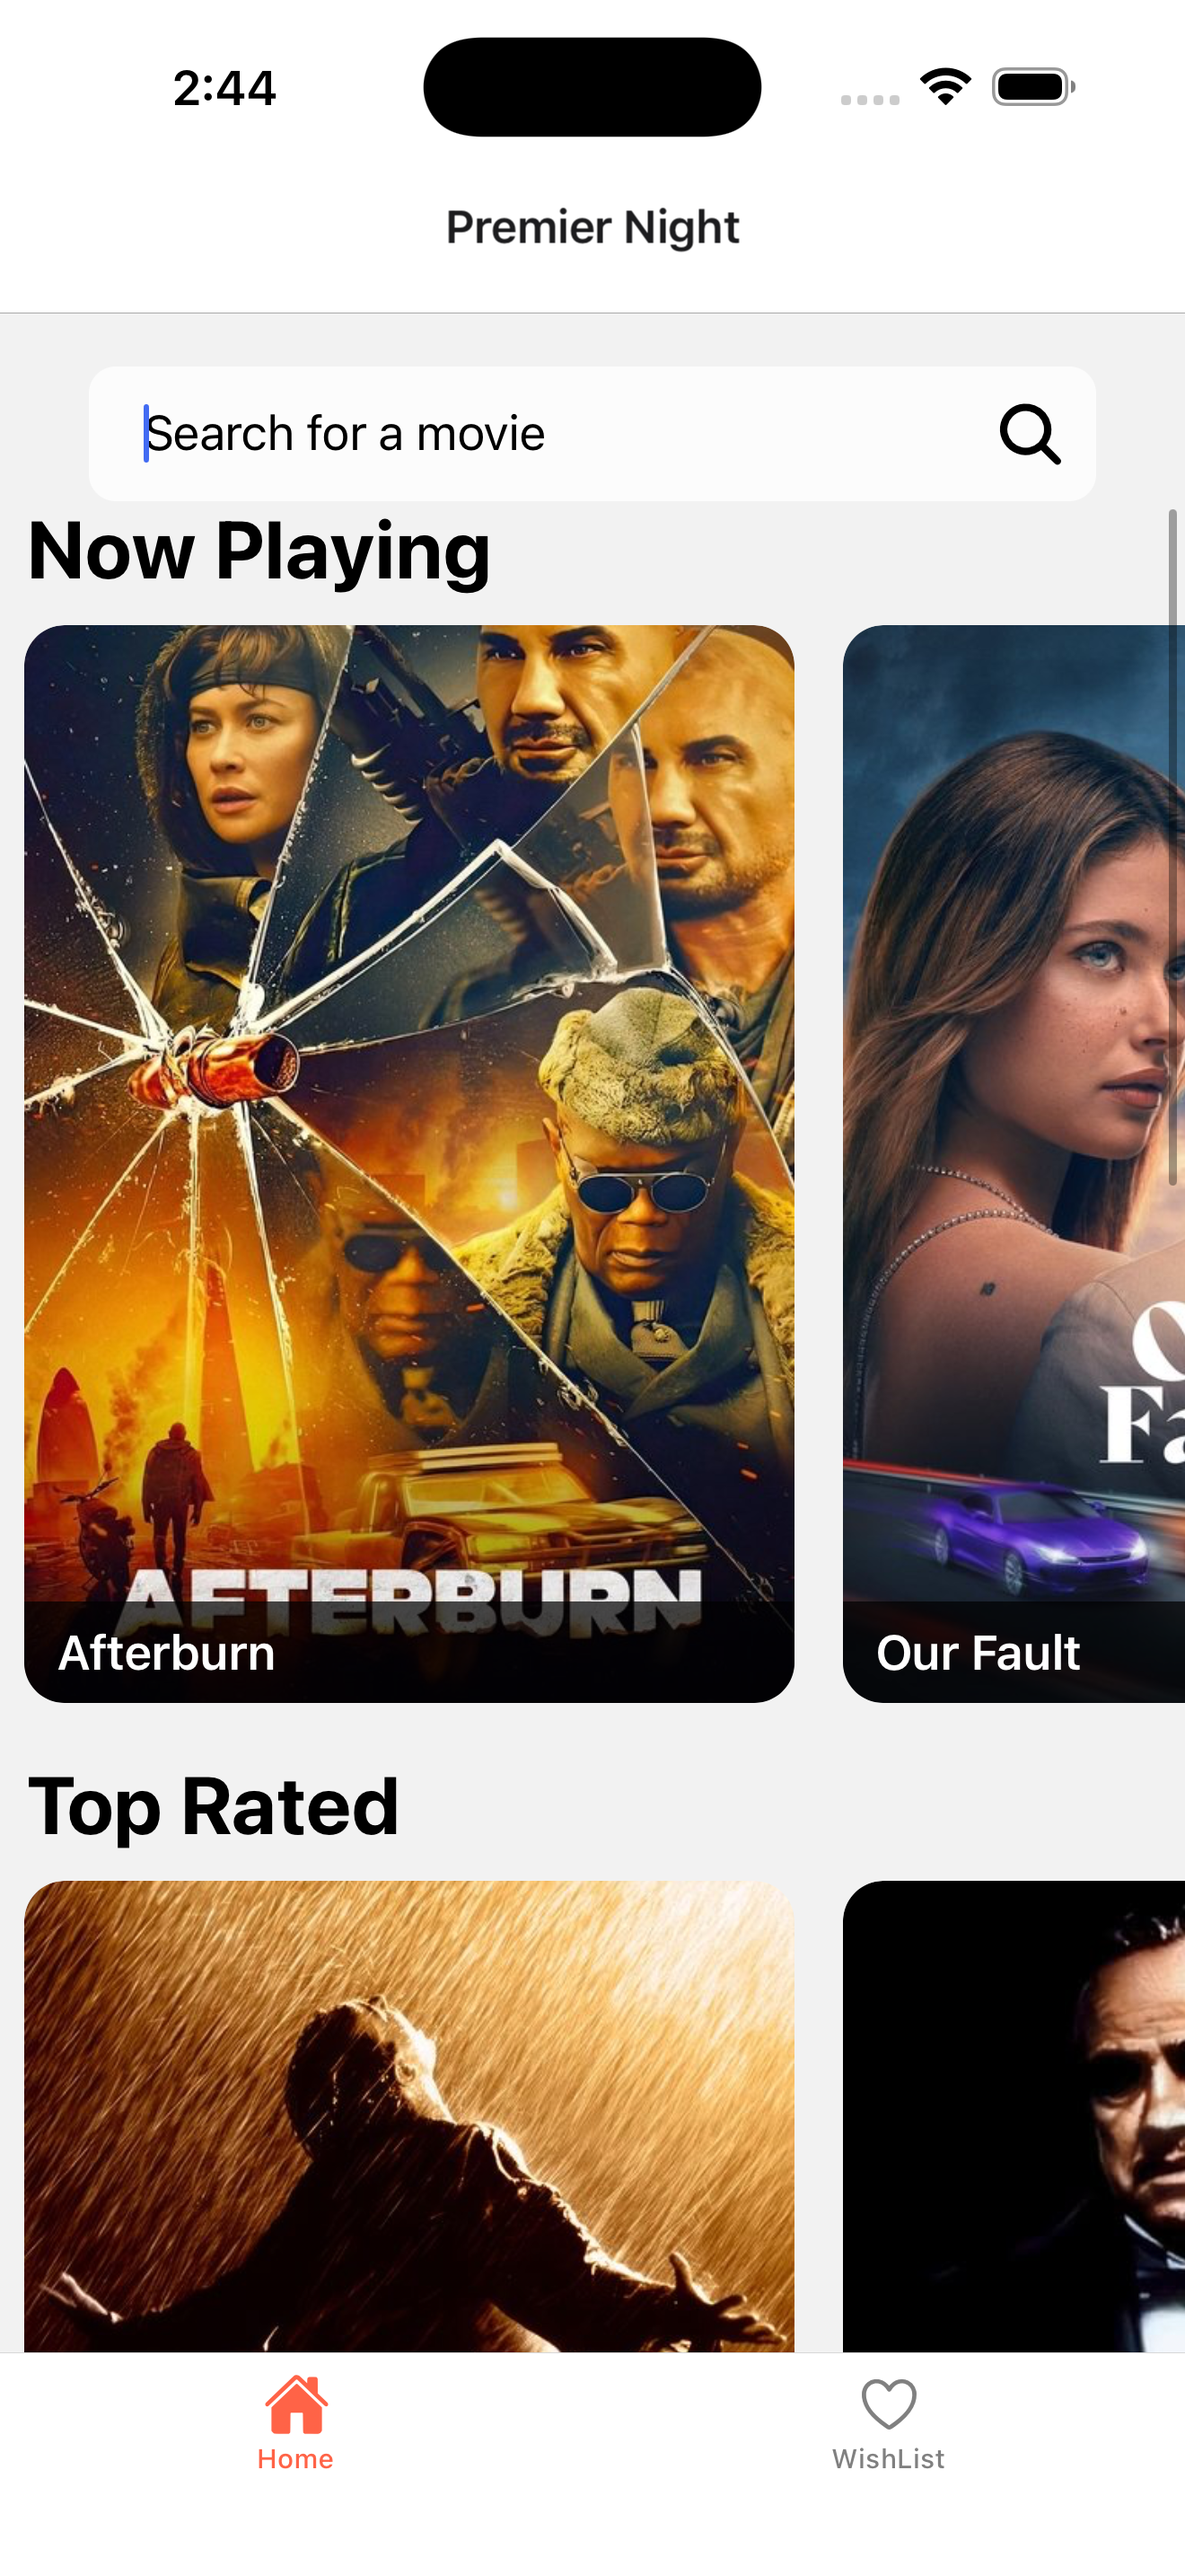
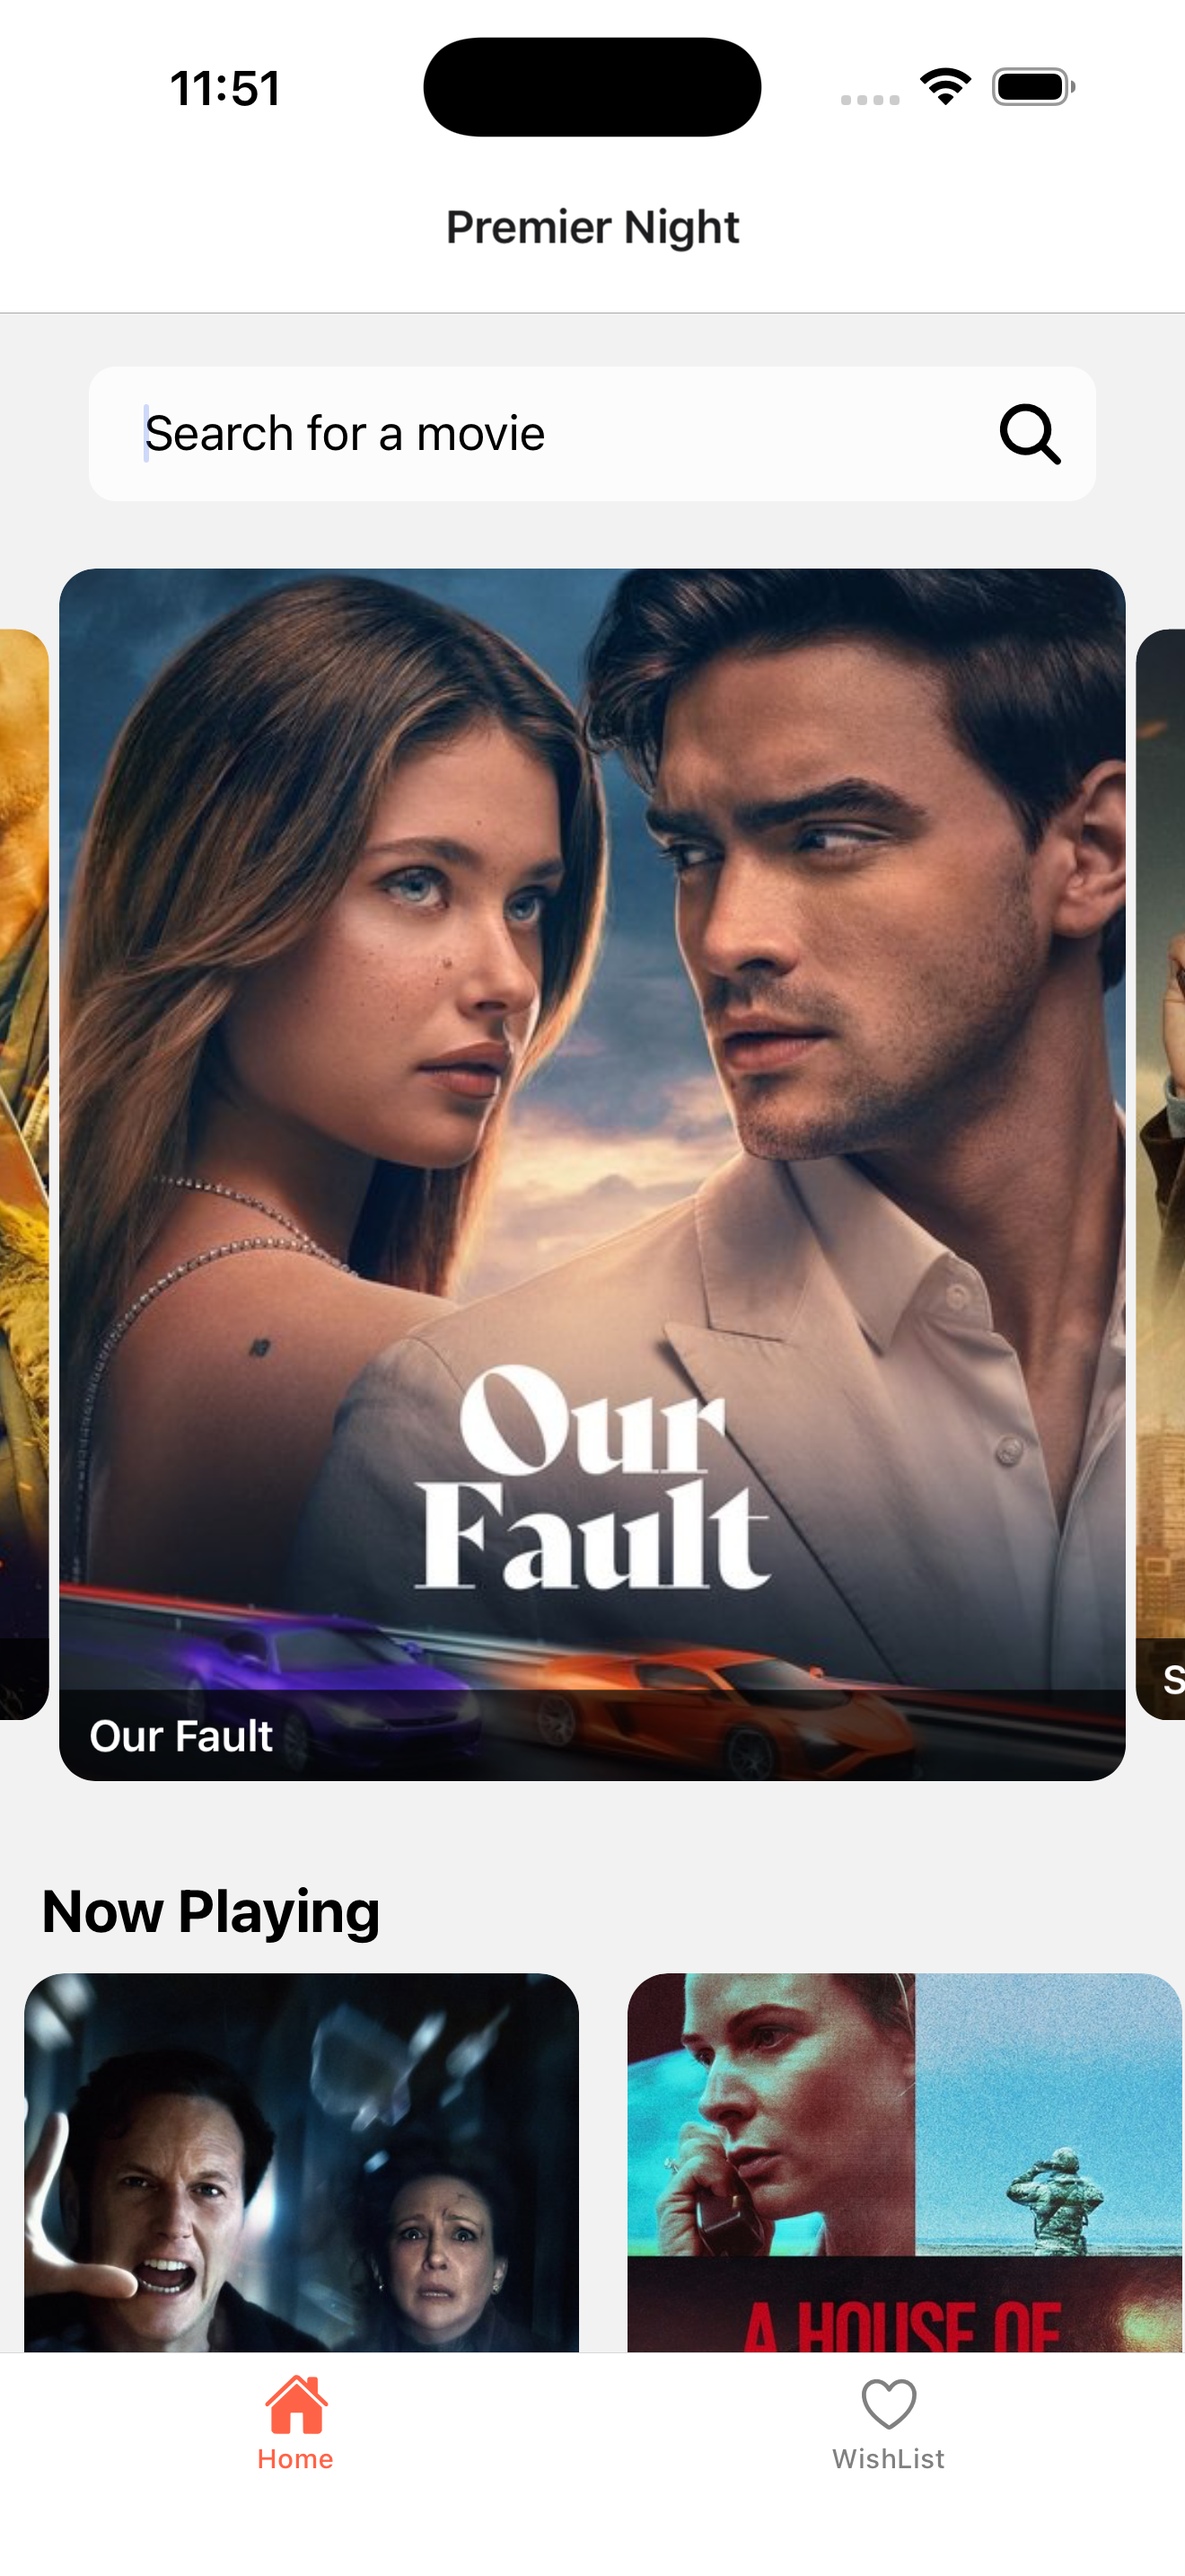
docs: update README file

diff --git a/jest.config.js b/jest.config.js
@@ -19,11 +19,12 @@ module.exports = {
       '@react-native|' +
       'react-native|' +
       '@react-navigation|' +
-      'react-native-vector-icons|' +
+      '@react-native-vector-icons|' +
       '@reduxjs/toolkit|' +
       'immer|' +
       'react-redux|' +
-      'redux' +
+      'redux|' +
+      '@react-native-async-storage' +
       ')/)',
   ],
   testPathIgnorePatterns: [

diff --git a/README.md b/README.md
@@ -2,16 +2,16 @@
 
 A modern React Native movie discovery application built with Clean Architecture principles, featuring movie browsing, detailed information, and wishlist management powered by The Movie Database (TMDB) API.
 
-### Note: Inital load of the app on iOS 18.0 or higher can return Axios error (404 mainly). This is due to some issue in iOS side. But incase it doesn't work you can reload the app again
+### Note: Initial load of the app on iOS 18.0 or higher can return Axios error (404 mainly). This is due to some issue in iOS side. But incase it doesn't work you can reload the app again.I have updated Info.plist to fix the issue 
 
 ## App Demo
 
 <details>
   <summary>📱 App Screenshots (Click to expand)</summary>
 
-  | Home Screen | Movie Details | Wishlist |
-  |--------------|----------------|-----------|
-  | ![Home Screen](./screenshots/home.png) | ![Movie Details](./screenshots/details.png) | ![Wishlist](./screenshots/wishlist.png) |
+  | Home Screen | Movie Details | View More | Wishlist |
+  |--------------|----------------|-----------|-----------|
+  | ![Home Screen](./screenshots/home.png)  | ![Movie Details](./screenshots/details.png) |  ![View More](./screenshots/movie-category.png) | ![Wishlist](./screenshots/wishlist.png) |
 
 </details>
 
@@ -24,6 +24,7 @@ A modern React Native movie discovery application built with Clean Architecture 
 - [Architecture](#architecture)
 - [Project Structure](#project-structure)
 - [Environment Variables](#environment-variables)
+- [Testing](#testing)
 - [Troubleshooting](#troubleshooting)
 
 ## ✨ Features
@@ -33,6 +34,8 @@ A modern React Native movie discovery application built with Clean Architecture 
 - 📊 Redux state management
 - 🎨 Bottom tab navigation
 - 🔍 Movie details view
+- 🔍 Search movies
+- 🎥 Top 5 Now Playing highlighted
 
 ## 🛠 Prerequisites
 
@@ -281,6 +284,13 @@ Required environment variables:
 |----------|-------------|---------|
 | `TMDB_API_KEY` | TMDB API Key | `abc123def456...` |
 | `API_URL` | TMDB API Base URL | `https://api.themoviedb.org/3/movie` |
+
+##  Test Coverage
+
+First, start the Metro JavaScript bundler:
+```bash
+npx jest test --coverage
+```
 
 ## 🐛 Troubleshooting
 
